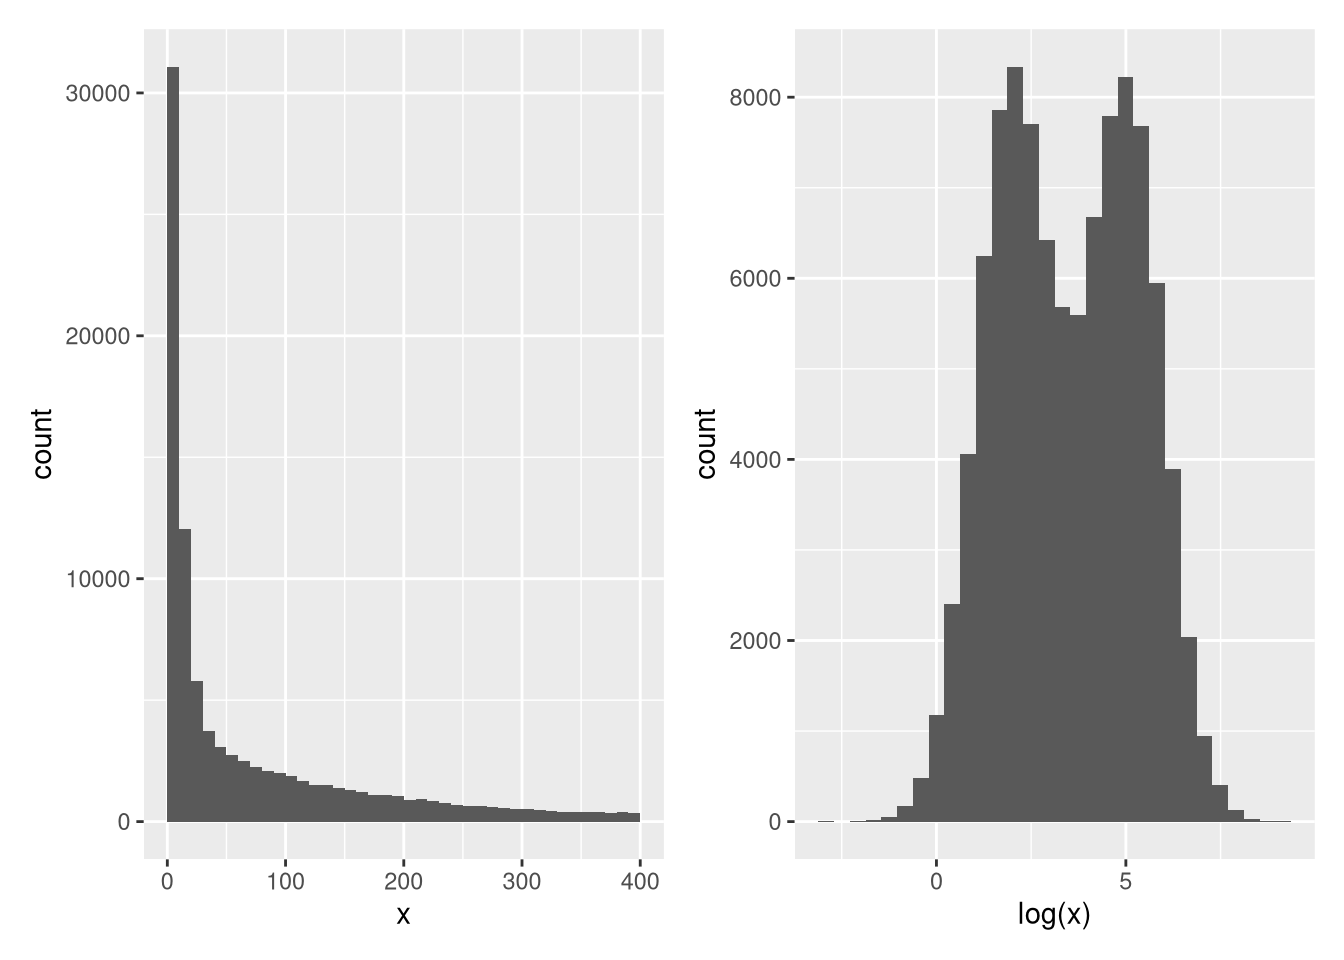
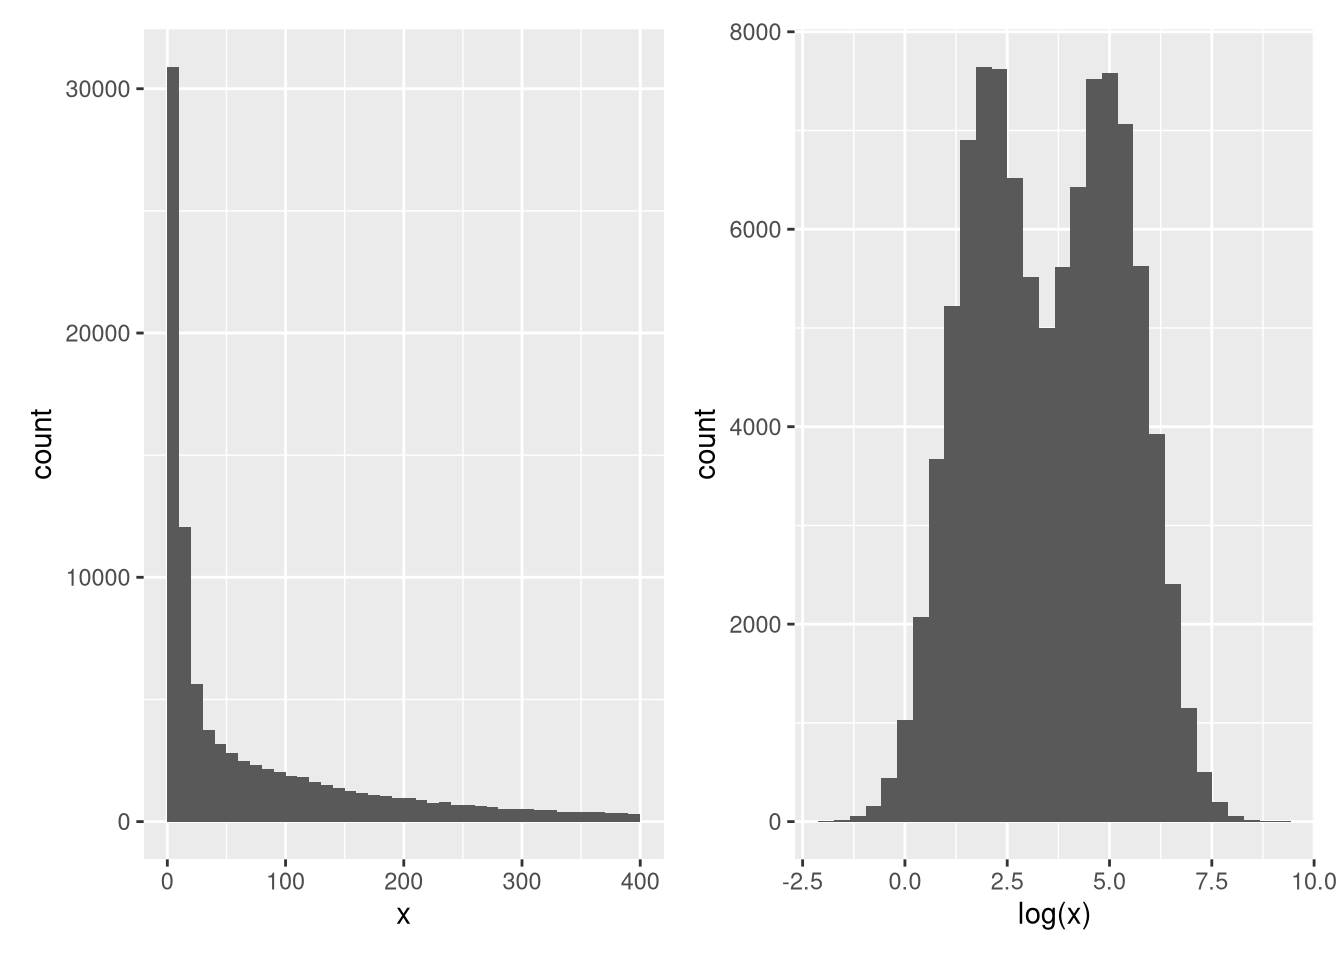
rebuild book

diff --git a/docs/sec-si.html b/docs/sec-si.html
@@ -14,7 +14,7 @@
 
 <meta name="author" content="Laurent Gatto" />
 
-<meta name="date" content="2021-11-02" />
+<meta name="date" content="2021-11-07" />
 
 <script type="text/x-mathjax-config">
 MathJax.Hub.Config({
@@ -206,7 +206,7 @@ div.csl-indent {
 <span class="header-section-number">Chapter 13</span> Session information</h1>
 <p>The following packages have been used to generate this document.</p>
 <div class="sourceCode" id="cb454"><pre class="sourceCode r"><code class="sourceCode r"><span id="cb454-1"><a href="sec-si.html#cb454-1" aria-hidden="true" tabindex="-1"></a><span class="fu">sessionInfo</span>()</span></code></pre></div>
-<pre><code>## R version 4.1.0 (2021-05-18)
+<pre><code>## R version 4.1.2 (2021-11-01)
 ## Platform: x86_64-pc-linux-gnu (64-bit)
 ## Running under: Manjaro Linux
 ## 
@@ -228,24 +228,24 @@ div.csl-indent {
 ## 
 ## other attached packages:
 ##  [1] UpSetR_1.4.0                          Vennerable_3.1.0.9000                
-##  [3] ComplexHeatmap_2.9.4                  class_7.3-19                         
-##  [5] pRoloc_1.33.1                         BiocParallel_1.27.17                 
-##  [7] MLInterfaces_1.73.0                   cluster_2.1.2                        
-##  [9] annotate_1.71.0                       XML_3.99-0.8                         
-## [11] AnnotationDbi_1.55.2                  bioDist_1.65.0                       
+##  [3] ComplexHeatmap_2.10.0                 class_7.3-19                         
+##  [5] pRoloc_1.34.0                         BiocParallel_1.28.0                  
+##  [7] MLInterfaces_1.74.0                   cluster_2.1.2                        
+##  [9] annotate_1.72.0                       XML_3.99-0.8                         
+## [11] AnnotationDbi_1.56.1                  bioDist_1.66.0                       
 ## [13] KernSmooth_2.23-20                    factoextra_1.0.7                     
-## [15] pRolocdata_1.31.0                     MSnbase_2.19.2                       
-## [17] ProtGenerics_1.25.2                   mzR_2.27.1                           
+## [15] pRolocdata_1.32.0                     MSnbase_2.20.0                       
+## [17] ProtGenerics_1.26.0                   mzR_2.28.0                           
 ## [19] Rcpp_1.0.7                            QFeatures_1.5.1                      
-## [21] MultiAssayExperiment_1.19.16          BSgenome.Dmelanogaster.UCSC.dm2_1.4.0
-## [23] BSgenome_1.61.0                       rtracklayer_1.53.1                   
-## [25] Biostrings_2.61.2                     XVector_0.33.0                       
-## [27] rWSBIM1207_0.1.15                     airway_1.13.0                        
-## [29] SummarizedExperiment_1.23.5           Biobase_2.53.0                       
-## [31] GenomicRanges_1.45.0                  GenomeInfoDb_1.29.10                 
-## [33] IRanges_2.27.2                        S4Vectors_0.31.5                     
-## [35] BiocGenerics_0.39.2                   MatrixGenerics_1.5.4                 
-## [37] matrixStats_0.61.0                    BiocStyle_2.21.4                     
+## [21] MultiAssayExperiment_1.20.0           BSgenome.Dmelanogaster.UCSC.dm2_1.4.0
+## [23] BSgenome_1.62.0                       rtracklayer_1.54.0                   
+## [25] Biostrings_2.62.0                     XVector_0.34.0                       
+## [27] rWSBIM1207_0.1.15                     airway_1.14.0                        
+## [29] SummarizedExperiment_1.24.0           Biobase_2.54.0                       
+## [31] GenomicRanges_1.46.0                  GenomeInfoDb_1.30.0                  
+## [33] IRanges_2.28.0                        S4Vectors_0.32.0                     
+## [35] BiocGenerics_0.40.0                   MatrixGenerics_1.6.0                 
+## [37] matrixStats_0.61.0                    BiocStyle_2.22.0                     
 ## [39] patchwork_1.1.1                       ggbeeswarm_0.6.0                     
 ## [41] plotly_4.10.0                         Hmisc_4.6-0                          
 ## [43] Formula_1.2-4                         survival_3.2-13                      
@@ -258,40 +258,40 @@ div.csl-indent {
 ## 
 ## loaded via a namespace (and not attached):
 ##   [1] rappdirs_0.3.3           ModelMetrics_1.2.2.2     coda_0.19-4             
-##   [4] bit64_4.0.5              knitr_1.36               DelayedArray_0.19.4     
-##   [7] data.table_1.14.2        rpart_4.1-15             KEGGREST_1.33.0         
-##  [10] RCurl_1.98-1.5           AnnotationFilter_1.17.1  doParallel_1.0.16       
-##  [13] generics_0.1.1           preprocessCore_1.55.2    RSQLite_2.2.8           
-##  [16] future_1.22.1            proxy_0.4-26             bit_4.0.4               
-##  [19] tzdb_0.1.2               xml2_1.3.2               lubridate_1.8.0         
+##   [4] bit64_4.0.5              knitr_1.36               DelayedArray_0.20.0     
+##   [7] data.table_1.14.2        rpart_4.1-15             KEGGREST_1.34.0         
+##  [10] RCurl_1.98-1.5           AnnotationFilter_1.18.0  doParallel_1.0.16       
+##  [13] generics_0.1.1           preprocessCore_1.56.0    RSQLite_2.2.8           
+##  [16] future_1.23.0            proxy_0.4-26             bit_4.0.4               
+##  [19] tzdb_0.2.0               xml2_1.3.2               lubridate_1.8.0         
 ##  [22] assertthat_0.2.1         isoband_0.2.5            viridis_0.6.2           
-##  [25] gower_0.2.2              xfun_0.27                hms_1.1.1               
+##  [25] gower_0.2.2              xfun_0.28                hms_1.1.1               
 ##  [28] jquerylib_0.1.4          evaluate_0.14            fansi_0.5.0             
-##  [31] restfulr_0.0.13          progress_1.2.2           dendextend_1.15.1       
+##  [31] restfulr_0.0.13          progress_1.2.2           dendextend_1.15.2       
 ##  [34] dbplyr_2.1.1             readxl_1.3.1             igraph_1.2.7            
 ##  [37] DBI_1.1.1                htmlwidgets_1.5.4        ellipsis_0.3.2          
-##  [40] ggpubr_0.4.0             backports_1.2.1          bookdown_0.24           
-##  [43] biomaRt_2.49.7           vctrs_0.3.8              Cairo_1.5-12.2          
-##  [46] abind_1.4-5              caret_6.0-90             cachem_1.0.6            
-##  [49] withr_2.4.2              msmbstyle_0.0.19         vroom_1.5.5             
-##  [52] checkmate_2.0.0          GenomicAlignments_1.29.0 prettyunits_1.1.1       
-##  [55] mclust_5.4.7             segmented_1.3-4          lazyeval_0.2.2          
-##  [58] crayon_1.4.1             recipes_0.1.17           pkgconfig_2.0.3         
-##  [61] labeling_0.4.2           nlme_3.1-153             vipor_0.4.5             
-##  [64] nnet_7.3-16              globals_0.14.0           rlang_0.4.12            
-##  [67] lifecycle_1.0.1          LaplacesDemon_16.1.6     filelock_1.0.2          
-##  [70] affyio_1.63.2            BiocFileCache_2.1.1      modelr_0.1.8            
-##  [73] randomForest_4.6-14      cellranger_1.1.0         graph_1.71.2            
-##  [76] Matrix_1.3-4             carData_3.0-4            reprex_2.0.1            
-##  [79] base64enc_0.1-3          beeswarm_0.4.0           GlobalOptions_0.1.2     
-##  [82] png_0.1-7                viridisLite_0.4.0        rjson_0.2.20            
-##  [85] bitops_1.0-7             pROC_1.18.0              blob_1.2.2              
-##  [88] shape_1.4.6              parallelly_1.28.1        jpeg_0.1-9              
-##  [91] rstatix_0.7.0            ggsignif_0.6.3           lpSolve_5.6.15          
-##  [94] scales_1.1.1             memoise_2.0.0            magrittr_2.0.1          
-##  [97] plyr_1.8.6               hexbin_1.28.2            zlibbioc_1.39.0         
-## [100] compiler_4.1.0          
-##  [ reached getOption("max.print") -- omitted 79 entries ]</code></pre>
+##  [40] ggpubr_0.4.0             backports_1.3.0          bookdown_0.24           
+##  [43] biomaRt_2.50.0           vctrs_0.3.8              abind_1.4-5             
+##  [46] caret_6.0-90             cachem_1.0.6             withr_2.4.2             
+##  [49] msmbstyle_0.0.19         vroom_1.5.5              checkmate_2.0.0         
+##  [52] GenomicAlignments_1.30.0 prettyunits_1.1.1        mclust_5.4.7            
+##  [55] segmented_1.3-4          lazyeval_0.2.2           crayon_1.4.2            
+##  [58] recipes_0.1.17           pkgconfig_2.0.3          labeling_0.4.2          
+##  [61] nlme_3.1-153             vipor_0.4.5              nnet_7.3-16             
+##  [64] globals_0.14.0           rlang_0.4.12             lifecycle_1.0.1         
+##  [67] LaplacesDemon_16.1.6     filelock_1.0.2           affyio_1.64.0           
+##  [70] BiocFileCache_2.2.0      modelr_0.1.8             randomForest_4.6-14     
+##  [73] cellranger_1.1.0         graph_1.72.0             Matrix_1.3-4            
+##  [76] carData_3.0-4            reprex_2.0.1             base64enc_0.1-3         
+##  [79] beeswarm_0.4.0           GlobalOptions_0.1.2      png_0.1-7               
+##  [82] viridisLite_0.4.0        rjson_0.2.20             bitops_1.0-7            
+##  [85] pROC_1.18.0              blob_1.2.2               shape_1.4.6             
+##  [88] parallelly_1.28.1        jpeg_0.1-9               rstatix_0.7.0           
+##  [91] ggsignif_0.6.3           lpSolve_5.6.15           scales_1.1.1            
+##  [94] memoise_2.0.0            magrittr_2.0.1           plyr_1.8.6              
+##  [97] hexbin_1.28.2            zlibbioc_1.40.0          compiler_4.1.2          
+## [100] BiocIO_1.4.0            
+##  [ reached getOption("max.print") -- omitted 78 entries ]</code></pre>
 <div id="sec-setup2" class="section level2" number="13.1">
 <h2>
 <span class="header-section-number">13.1</span> R package setup<div class="tooltip"><button class="internal-link-btn" onclick="copy_link('sec-setup2')" onmouseout="reset_tooltip('sec-setup2-tooltip')"><span class="tooltiptext" id="sec-setup2-tooltip">Copy link</span><i class="fa fa-link"></i></button></div>
@@ -322,9 +322,9 @@ the following code:</p>
 <a href="sec-ccl.html"><button class="btn btn-default">Previous</button></a>
 </p>
 <p class="build-date">Page built: 
-2021-11-02
+2021-11-07
  using 
-R version 4.1.0 (2021-05-18)
+R version 4.1.2 (2021-11-01)
 </p>
 </div>
 </div>

diff --git a/docs/sec-vis.html b/docs/sec-vis.html
@@ -14,7 +14,7 @@
 
 <meta name="author" content="Laurent Gatto" />
 
-<meta name="date" content="2021-11-02" />
+<meta name="date" content="2021-11-07" />
 
 <script type="text/x-mathjax-config">
 MathJax.Hub.Config({
@@ -920,7 +920,7 @@ of the data.</p>
 <span id="cb37-9"><a href="sec-vis.html#cb37-9" aria-hidden="true" tabindex="-1"></a>p2 <span class="ot">&lt;-</span>  <span class="fu">ggplot</span>(sim, <span class="fu">aes</span>(<span class="fu">log</span>(x))) <span class="sc">+</span></span>
 <span id="cb37-10"><a href="sec-vis.html#cb37-10" aria-hidden="true" tabindex="-1"></a>    <span class="fu">geom_histogram</span>(<span class="at">bins =</span> <span class="dv">30</span>)</span>
 <span id="cb37-11"><a href="sec-vis.html#cb37-11" aria-hidden="true" tabindex="-1"></a>p1 <span class="sc">+</span> p2</span></code></pre></div>
-<pre><code>## Warning: Removed 7976 rows containing non-finite values (stat_bin).</code></pre>
+<pre><code>## Warning: Removed 8040 rows containing non-finite values (stat_bin).</code></pre>
 <div class="figure">
 <span style="display:block;" id="fig:sim"></span>
 <p class="caption marginnote shownote">
@@ -1166,9 +1166,9 @@ otherwise. Below are some example outputs.</p>
 <a href="sec-obj.html"><button class="btn btn-default">Next</button></a>
 </p>
 <p class="build-date">Page built: 
-2021-11-02
+2021-11-07
  using 
-R version 4.1.0 (2021-05-18)
+R version 4.1.2 (2021-11-01)
 </p>
 </div>
 </div>

diff --git a/docs/sec-dimred.html b/docs/sec-dimred.html
@@ -14,7 +14,7 @@
 
 <meta name="author" content="Laurent Gatto" />
 
-<meta name="date" content="2021-11-02" />
+<meta name="date" content="2021-11-07" />
 
 <script type="text/x-mathjax-config">
 MathJax.Hub.Config({
@@ -732,7 +732,7 @@ experimental design stored in the <em>colData</em> slot.</p>
 <div id="sol-body-46" class="solution-body" style="display: none;">
 <div class="sourceCode" id="cb329"><pre class="sourceCode r"><code class="sourceCode r"><span id="cb329-1"><a href="sec-dimred.html#cb329-1" aria-hidden="true" tabindex="-1"></a><span class="fu">library</span>(pRolocdata)</span></code></pre></div>
 <pre><code>## 
-## This is pRolocdata version 1.31.0.
+## This is pRolocdata version 1.32.0.
 ## Use 'pRolocdata()' to list available data sets.</code></pre>
 <div class="sourceCode" id="cb331"><pre class="sourceCode r"><code class="sourceCode r"><span id="cb331-1"><a href="sec-dimred.html#cb331-1" aria-hidden="true" tabindex="-1"></a><span class="fu">data</span>(mulvey2015)</span>
 <span id="cb331-2"><a href="sec-dimred.html#cb331-2" aria-hidden="true" tabindex="-1"></a><span class="fu">library</span>(<span class="st">"SummarizedExperiment"</span>)</span>
@@ -1342,9 +1342,9 @@ the labels?</p>
 <a href="sec-ul.html"><button class="btn btn-default">Next</button></a>
 </p>
 <p class="build-date">Page built: 
-2021-11-02
+2021-11-07
  using 
-R version 4.1.0 (2021-05-18)
+R version 4.1.2 (2021-11-01)
 </p>
 </div>
 </div>

diff --git a/docs/sec-testing.html b/docs/sec-testing.html
@@ -14,7 +14,7 @@
 
 <meta name="author" content="Laurent Gatto" />
 
-<meta name="date" content="2021-11-02" />
+<meta name="date" content="2021-11-07" />
 
 <script type="text/x-mathjax-config">
 MathJax.Hub.Config({
@@ -912,7 +912,7 @@ it to calculate 1000 p-values.</p></li>
 </p>
 <div class="question-body">
 <p>Load the <code>tdata2</code> dataset from the <code>rWSBIM1322</code> package. These data
-represent the measurement of a inflammation biomarker in the blood of
+represent the measurement of an inflammation biomarker in the blood of
 15 patients, before and after treatment for a acute liver
 inflammation. Visualise the data and run a test to verify if the
 treatment has had an effect or not.</p>
@@ -1133,9 +1133,9 @@ conclusion now?</li>
 <a href="sec-dimred.html"><button class="btn btn-default">Next</button></a>
 </p>
 <p class="build-date">Page built: 
-2021-11-02
+2021-11-07
  using 
-R version 4.1.0 (2021-05-18)
+R version 4.1.2 (2021-11-01)
 </p>
 </div>
 </div>

diff --git a/docs/index.html b/docs/index.html
@@ -14,7 +14,7 @@
 
 <meta name="author" content="Laurent Gatto" />
 
-<meta name="date" content="2021-11-02" />
+<meta name="date" content="2021-11-07" />
 
 <script type="text/x-mathjax-config">
 MathJax.Hub.Config({
@@ -340,9 +340,9 @@ style</a> <span class="citation">(<label for="tufte-mn-10" class="margin-toggle"
 <a href="sec-refresher.html"><button class="btn btn-default">Next</button></a>
 </p>
 <p class="build-date">Page built: 
-2021-11-02
+2021-11-07
  using 
-R version 4.1.0 (2021-05-18)
+R version 4.1.2 (2021-11-01)
 </p>
 </div>
 </div>

diff --git a/docs/sec-sl.html b/docs/sec-sl.html
@@ -14,7 +14,7 @@
 
 <meta name="author" content="Laurent Gatto" />
 
-<meta name="date" content="2021-11-02" />
+<meta name="date" content="2021-11-07" />
 
 <script type="text/x-mathjax-config">
 MathJax.Hub.Config({
@@ -1054,9 +1054,9 @@ most reliable assignments one, and setting the unreliable ones to
 <a href="sec-biovis.html"><button class="btn btn-default">Next</button></a>
 </p>
 <p class="build-date">Page built: 
-2021-11-02
+2021-11-07
  using 
-R version 4.1.0 (2021-05-18)
+R version 4.1.2 (2021-11-01)
 </p>
 </div>
 </div>

diff --git a/docs/sec-biovis.html b/docs/sec-biovis.html
@@ -14,7 +14,7 @@
 
 <meta name="author" content="Laurent Gatto" />
 
-<meta name="date" content="2021-11-02" />
+<meta name="date" content="2021-11-07" />
 
 <script type="text/x-mathjax-config">
 MathJax.Hub.Config({
@@ -487,9 +487,9 @@ number of intersectios (default is 40) become useful.</p>
 <a href="sec-ccl.html"><button class="btn btn-default">Next</button></a>
 </p>
 <p class="build-date">Page built: 
-2021-11-02
+2021-11-07
  using 
-R version 4.1.0 (2021-05-18)
+R version 4.1.2 (2021-11-01)
 </p>
 </div>
 </div>

diff --git a/docs/sec-mlintro.html b/docs/sec-mlintro.html
@@ -14,7 +14,7 @@
 
 <meta name="author" content="Laurent Gatto" />
 
-<meta name="date" content="2021-11-02" />
+<meta name="date" content="2021-11-07" />
 
 <script type="text/x-mathjax-config">
 MathJax.Hub.Config({
@@ -762,9 +762,9 @@ but these are beyond the scope of this course.</p>
 <a href="sec-testing.html"><button class="btn btn-default">Next</button></a>
 </p>
 <p class="build-date">Page built: 
-2021-11-02
+2021-11-07
  using 
-R version 4.1.0 (2021-05-18)
+R version 4.1.2 (2021-11-01)
 </p>
 </div>
 </div>

diff --git a/docs/sec-obj.html b/docs/sec-obj.html
@@ -14,7 +14,7 @@
 
 <meta name="author" content="Laurent Gatto" />
 
-<meta name="date" content="2021-11-02" />
+<meta name="date" content="2021-11-07" />
 
 <script type="text/x-mathjax-config">
 MathJax.Hub.Config({
@@ -997,9 +997,9 @@ of class <code>SummarizedExperiment</code>.</p>
 <a href="sec-biostrings.html"><button class="btn btn-default">Next</button></a>
 </p>
 <p class="build-date">Page built: 
-2021-11-02
+2021-11-07
  using 
-R version 4.1.0 (2021-05-18)
+R version 4.1.2 (2021-11-01)
 </p>
 </div>
 </div>

diff --git a/docs/sec-ul.html b/docs/sec-ul.html
@@ -14,7 +14,7 @@
 
 <meta name="author" content="Laurent Gatto" />
 
-<meta name="date" content="2021-11-02" />
+<meta name="date" content="2021-11-07" />
 
 <script type="text/x-mathjax-config">
 MathJax.Hub.Config({
@@ -996,9 +996,9 @@ average marker profiles, such as shown below.</p></li>
 <a href="sec-sl.html"><button class="btn btn-default">Next</button></a>
 </p>
 <p class="build-date">Page built: 
-2021-11-02
+2021-11-07
  using 
-R version 4.1.0 (2021-05-18)
+R version 4.1.2 (2021-11-01)
 </p>
 </div>
 </div>

diff --git a/docs/sec-norm.html b/docs/sec-norm.html
@@ -14,7 +14,7 @@
 
 <meta name="author" content="Laurent Gatto" />
 
-<meta name="date" content="2021-11-02" />
+<meta name="date" content="2021-11-07" />
 
 <script type="text/x-mathjax-config">
 MathJax.Hub.Config({
@@ -749,9 +749,9 @@ implications for the normalisation step?</p>
 <a href="sec-mlintro.html"><button class="btn btn-default">Next</button></a>
 </p>
 <p class="build-date">Page built: 
-2021-11-02
+2021-11-07
  using 
-R version 4.1.0 (2021-05-18)
+R version 4.1.2 (2021-11-01)
 </p>
 </div>
 </div>

diff --git a/docs/sec-refresher.html b/docs/sec-refresher.html
@@ -14,7 +14,7 @@
 
 <meta name="author" content="Laurent Gatto" />
 
-<meta name="date" content="2021-11-02" />
+<meta name="date" content="2021-11-07" />
 
 <script type="text/x-mathjax-config">
 MathJax.Hub.Config({
@@ -373,9 +373,9 @@ state it explicitly in your response.</p>
 <a href="sec-vis.html"><button class="btn btn-default">Next</button></a>
 </p>
 <p class="build-date">Page built: 
-2021-11-02
+2021-11-07
  using 
-R version 4.1.0 (2021-05-18)
+R version 4.1.2 (2021-11-01)
 </p>
 </div>
 </div>
